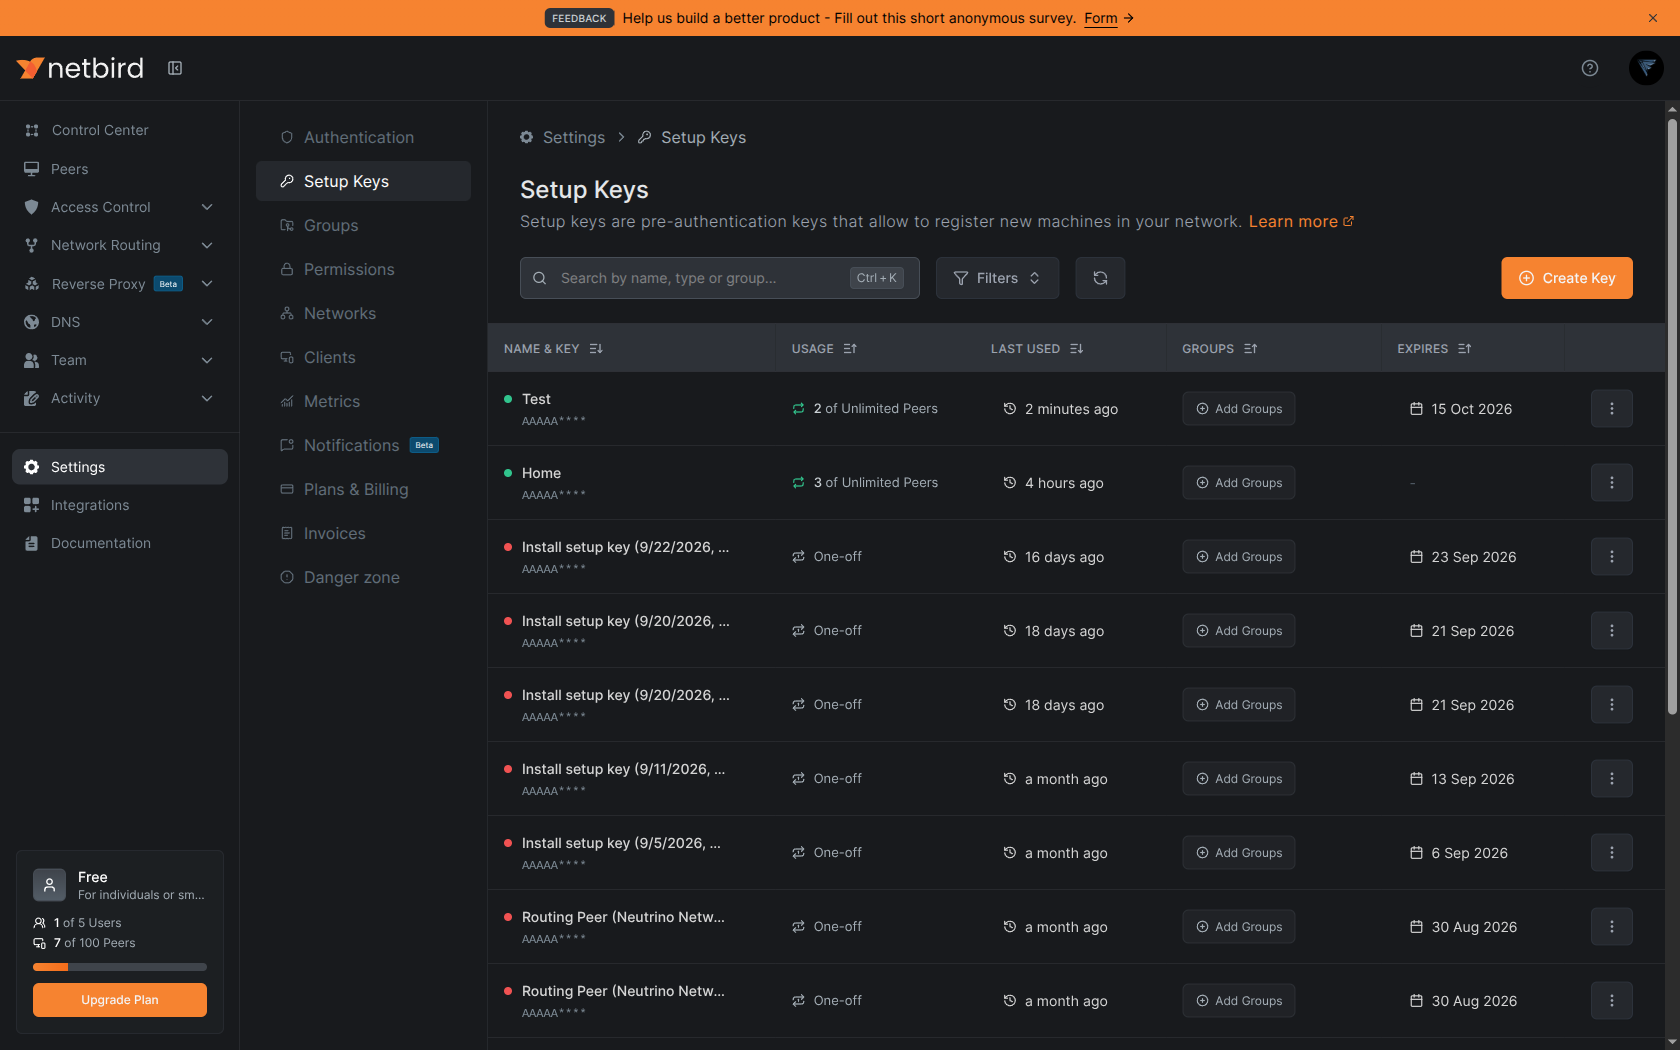
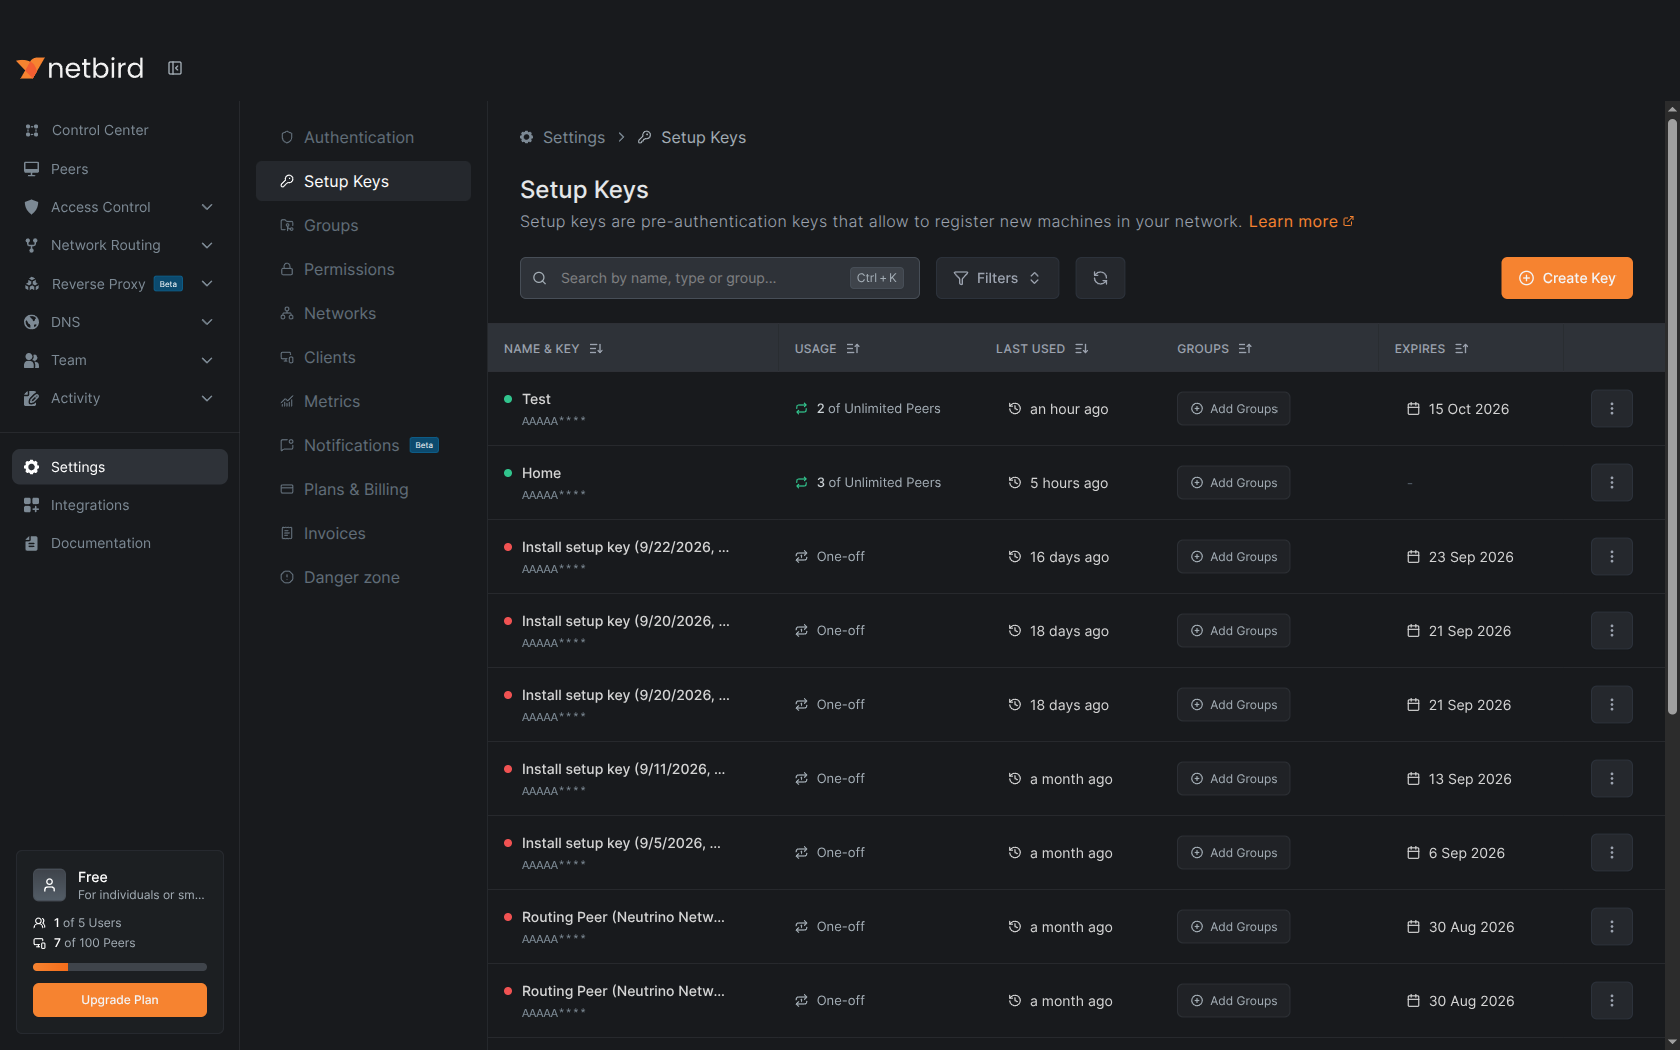
Packaging: the nine console shots are captured through the signed-in browser, with press, fill, wait_after and hide driving the NetBird and EasyTier consoles to each state.

diff --git a/packaging/screenshots/capture.py b/packaging/screenshots/capture.py
@@ -116,19 +116,6 @@ REDACT_SCRIPT = """
 
 # Runs inside the page: hides every element the selectors match, and returns
 # how many.
-HIDE_SCRIPT = """
-(selectors) => {
-  let count = 0;
-  for (const selector of selectors) {
-    for (const element of document.querySelectorAll(selector)) {
-      element.style.visibility = 'hidden';
-      count += 1;
-    }
-  }
-  return count;
-}
-"""
-
 # The panel's QR code image, and the border it draws around the code.
 QR_SELECTOR = "img.qr_code"
 QR_BORDER_MODULES = 4
@@ -188,15 +175,21 @@ def hide(page, selectors: list) -> int:
 
     Args:
         page: The Playwright page.
-        selectors: CSS selectors.
+        selectors: Playwright selectors, CSS or its own engines such as
+            ``:has-text()``.
 
     Returns:
         How many elements were hidden.
 
     Raises:
-        playwright.sync_api.Error: When the page is gone or a selector is not CSS.
+        playwright.sync_api.Error: When the page is gone or a selector is bad.
     """
-    return page.evaluate(HIDE_SCRIPT, selectors)
+    count = 0
+    for selector in selectors:
+        for handle in page.locator(selector).element_handles():
+            handle.evaluate("element => { element.style.visibility = 'hidden'; }")
+            count += 1
+    return count
 
 
 def read_rules() -> list:
@@ -327,6 +320,10 @@ def take(
         page.wait_for_timeout(PRESS_SETTLE_MS)
     for selector, text in shot.get("fill", {}).items():
         page.locator(resolve(selector, labels)).first.fill(text)
+    if shot.get("wait_after"):
+        page.wait_for_selector(
+            resolve(shot["wait_after"], labels), timeout=WAIT_TIMEOUT_MS
+        )
     try:
         page.wait_for_load_state("networkidle", timeout=NETWORK_IDLE_TIMEOUT_MS)
     except PlaywrightTimeoutError:

diff --git a/packaging/screenshots/README.md b/packaging/screenshots/README.md
@@ -96,4 +96,4 @@ such as a chart, is left as it is.
 
 ## Entries that open something first
 
-An entry may carry `press`, a list of selectors clicked in order before the shot (a button that opens a dialog), and `fill`, a map of selector to the text typed into it; both run before `manual` and before `wait_for`. `{ui.key}` placeholders are resolved in them as in `element`.
+An entry may carry `press`, a list of selectors clicked in order before the shot (a button that opens a dialog), and `fill`, a map of selector to the text typed into it; both run before `manual` and before `wait_for`. `{ui.key}` placeholders are resolved in them as in `element`. An entry may also carry `wait_after`, a selector waited for after the presses and fills, for a dialog or a table that takes a moment to appear.
